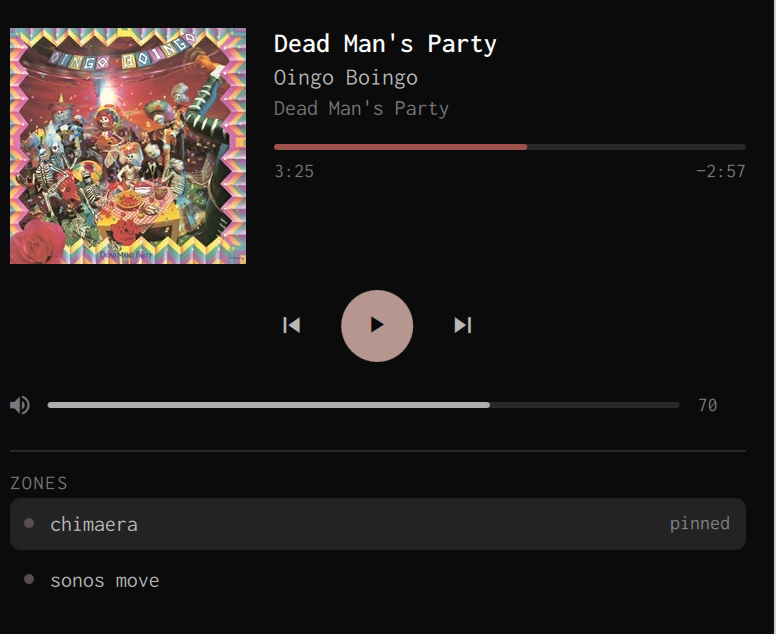
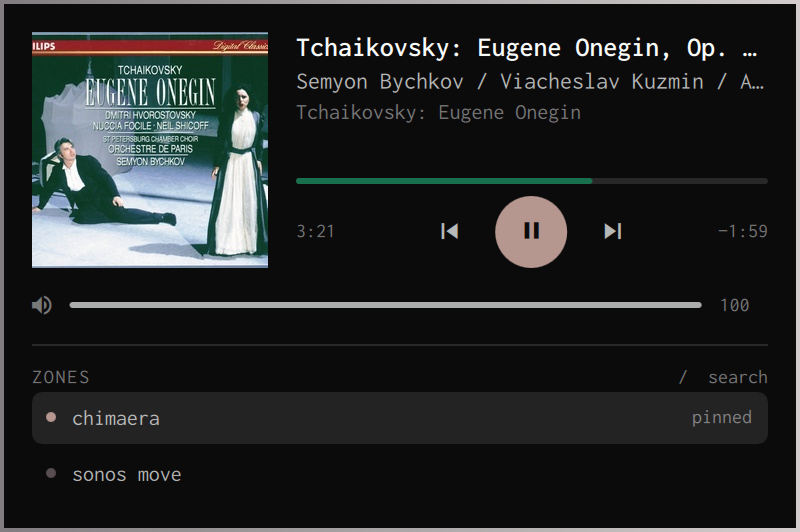
fix(daemon): read seek_position where Roon actually updates it
The seek bar never moved. Found while regenerating preview.png, which is
what made it obvious: the popup sat at 0:00 on a track that was audibly
playing.

Roon pushes `zones_seek_changed` about once a second carrying only
{zone_id, seek_position, queue_time_remaining}, and roonapi merges it with
`self._zones[zone_id].update(zone)` (roonapi.py:900) -- so that value lands at
the TOP LEVEL of the zone dict. `state.py` read only the nested
`now_playing.seek_position`, which a full `zones_changed` refreshes, and Roon
sends those on state transitions rather than on a timer. Position therefore
froze at whatever it happened to be during the last full update.

Measured live before the fix: 13 pushes in 12 seconds, every one
`position: 0`, while `length` changed 150 -> 320 as the track ran to its end
and into the next. After: 150, 151, 152, ... one per second.

This also explains why it survived review. A frozen position looks perfectly
plausible in a screenshot -- the MVP's own preview.png captured 3:25, a real
offset from some earlier full update -- and it is invisible to the unit tests,
whose fixture carries the nested key that a live Core only sends occasionally.
The widget's client-side extrapolation could not compensate either:
`Model.position()` adds `now - receivedAt`, and those same 1 Hz pushes reset
`receivedAt` every second, so the elapsed term never exceeded ~1s. Two
mechanisms that each look like a safety net, both defeated by the same push
rate.
[…]

diff --git a/tests/python/test_state.py b/tests/python/test_state.py
@@ -129,3 +129,64 @@ class TestBuild(unittest.TestCase):
 
 if __name__ == "__main__":
     unittest.main()
+
+
+class TestSeekPosition(unittest.TestCase):
+    """Where `seek_position` actually lives after a zones_seek_changed event.
+
+    Roon pushes a seek update roughly once a second carrying only
+    {zone_id, seek_position, queue_time_remaining}. roonapi merges that with
+    `self._zones[zone_id].update(zone)` (roonapi.py:900), which lands
+    `seek_position` at the TOP LEVEL of the zone dict -- it never reaches the
+    nested `now_playing`, which is refreshed only by a full `zones_changed`.
+
+    Reading only `now_playing.seek_position` therefore froze the reported
+    position at whatever it was during the last full zone update. Measured
+    live against the Core: 13 pushes in 12 seconds, every one `position: 0`,
+    while `length` changed 150 -> 320 as the track advanced. The widget's own
+    clock-side extrapolation could not paper over it either, because each of
+    those pushes resets `receivedAt`, so the elapsed term never exceeds ~1s.
+    """
+
+    def _zone(self, top=None, nested=None):
+        z = {
+            "zone_id": "z1",
+            "display_name": "Living Room",
+            "state": "playing",
+            "now_playing": {
+                "length": 320,
+                "three_line": {"line1": "t", "line2": "a", "line3": "b"},
+            },
+        }
+        if top is not None:
+            z["seek_position"] = top
+        if nested is not None:
+            z["now_playing"]["seek_position"] = nested
+        return z
+
+    def test_reads_the_top_level_seek_position(self):
+        # The one a zones_seek_changed event actually updates.
+        self.assertEqual(state.normalize_zone(self._zone(top=137))["position"], 137)
+
+    def test_top_level_wins_over_a_stale_nested_value(self):
+        # now_playing is only as fresh as the last full zones_changed, so the
+        # top-level value is the newer of the two whenever both are present.
+        z = self._zone(top=137, nested=0)
+        self.assertEqual(state.normalize_zone(z)["position"], 137)
+
+    def test_falls_back_to_the_nested_value(self):
+        # A full zones_changed arriving before any seek event has no top-level
+        # key at all; that payload's nested position is the only one there is.
+        self.assertEqual(state.normalize_zone(self._zone(nested=42))["position"], 42)
+
+    def test_a_genuine_zero_is_not_mistaken_for_missing(self):
+        # Track start reports 0, which is a real position. If `or` chose the
+        # fallback on a falsy 0, a seek back to the start would show the
+        # previous track's stale offset instead.
+        z = self._zone(top=0, nested=271)
+        self.assertEqual(state.normalize_zone(z)["position"], 0)
+
+    def test_neither_present_is_zero_not_none(self):
+        # The widget divides by length and formats this; None would render
+        # "NaN" and poison the seek fill's width binding.
+        self.assertEqual(state.normalize_zone(self._zone())["position"], 0)

diff --git a/scripts/tonearm_lib/state.py b/scripts/tonearm_lib/state.py
@@ -53,6 +53,32 @@ def _now_playing_of(roon_zone: dict) -> dict | None:
     }
 
 
+def _seek_of(roon_zone: dict, np: dict) -> int:
+    """Current playback position, preferring the value Roon actually refreshes.
+
+    Roon emits `zones_seek_changed` about once a second carrying only
+    {zone_id, seek_position, queue_time_remaining}, and roonapi merges it with
+    `self._zones[zone_id].update(zone)` -- so that value lands at the TOP LEVEL
+    of the zone dict. The nested `now_playing.seek_position` is refreshed only
+    by a full `zones_changed`, which Roon sends on state transitions, not on a
+    timer.
+
+    Reading only the nested one froze the position at whatever it was during
+    the last full update: measured live, 13 pushes in 12 seconds every one of
+    them `position: 0` while the track advanced past its end into the next.
+    The widget could not compensate either -- Model.position() extrapolates
+    from `receivedAt`, and those same 1 Hz pushes reset it every second.
+
+    `is None` rather than `or`, because 0 is a real position (track start, or
+    a seek back to the beginning) and must not fall through to the stale
+    nested value.
+    """
+    pos = roon_zone.get("seek_position")
+    if pos is None:
+        pos = np.get("seek_position")
+    return pos or 0
+
+
 def normalize_zone(roon_zone: dict | None) -> dict | None:
     if not roon_zone:
         return None
@@ -63,7 +89,7 @@ def normalize_zone(roon_zone: dict | None) -> dict | None:
         "state": roon_zone.get("state", "stopped"),
         "pinned": False,          # the daemon overwrites this; see zones.py
         "volume": _volume_of(roon_zone),
-        "position": np.get("seek_position") or 0,
+        "position": _seek_of(roon_zone, np),
         "length": np.get("length") or 0,
         "now_playing": _now_playing_of(roon_zone),
     }

diff --git a/AGENTS.md b/AGENTS.md
@@ -61,6 +61,7 @@ silently. These are not hypotheticals; each was measured.
 | **`roonapi` mutates `_api.zones` from its own lock-free thread.** | `RoonApiWebSocket` extends `Thread`; `_on_state_change` writes the zones dict in place with no locking. `core.py`'s `_raw_zones()` retries once on `RuntimeError` and degrades to `[]`. Nuance worth recording so nobody "proves" this wrong: on a normal GIL-enabled CPython, `list(d.values())` is one uninterrupted C call and cannot raise mid-materialisation — measured at 4,548+ reads under sustained size-changing mutation with zero errors, while a Python-level loop over the same dict raised after 3. The guard is forward-looking insurance for a free-threaded (PEP 703) build and any future refactor that splits the read across a bytecode boundary — not a bug reproducible today. |
 | **`roonapi`'s `_zones`/`_outputs` are CLASS-level mutable defaults**, and the subscription writes by item mutation, so every instance shares them. | `core.py` pre-seeds instance dicts on the `RoonApi.__new__` handle before `__init__` starts any thread. Writing `.clear()` there instead of `= {}` would mutate the shared class dict and be catastrophic. |
 | **`blocking_init=False` races the library's own `_get_zones()` prefetch** and deterministically clobbers real zone data with `{}` on any reconnect using a stored token. | The bound must be external (thread + join), not that flag. |
+| **`zones_seek_changed` lands `seek_position` at the zone's TOP LEVEL, not in `now_playing`.** | Roon pushes a seek update ~1 Hz carrying only {zone_id, seek_position, queue_time_remaining}, and roonapi merges it with `self._zones[zone_id].update(zone)` (roonapi.py:900). `now_playing.seek_position` is refreshed only by a full `zones_changed`, which Roon sends on state transitions rather than on a timer. Reading only the nested key froze the reported position at whatever it was during the last full update — measured live as 13 pushes in 12 seconds, every one `position: 0`, while the track ran past its end into the next. The widget could not paper over it: `Model.position()` extrapolates from `receivedAt`, and those same 1 Hz pushes reset it every second, so the elapsed term never exceeded ~1s. `state.py`'s `_seek_of()` prefers the top-level value and falls back to the nested one. |
 | **`roonapi`'s declared dependencies are over-declared** — it imports only `websocket`. | `test_vendor.py` guards this across refreshes. |
 | **Two independent Tailscale hazards.** | An exit node can route the LAN address into the tunnel, making the Core unreachable even though it is on the same wire; and the UDP-connect-then-`getsockname()` trick for finding the local subnet returns the *tailnet* address instead, so `sood.discover()` enumerates interfaces directly rather than trusting that trick. |
 | **Multicast SOOD draws no reply on this LAN.** Unicast does. | `RoonDiscovery` cannot find the Core here; `sood.discover()` falls back to a `/24` scan. If discovery ever returns `via: "multicast"`, the network changed. |
